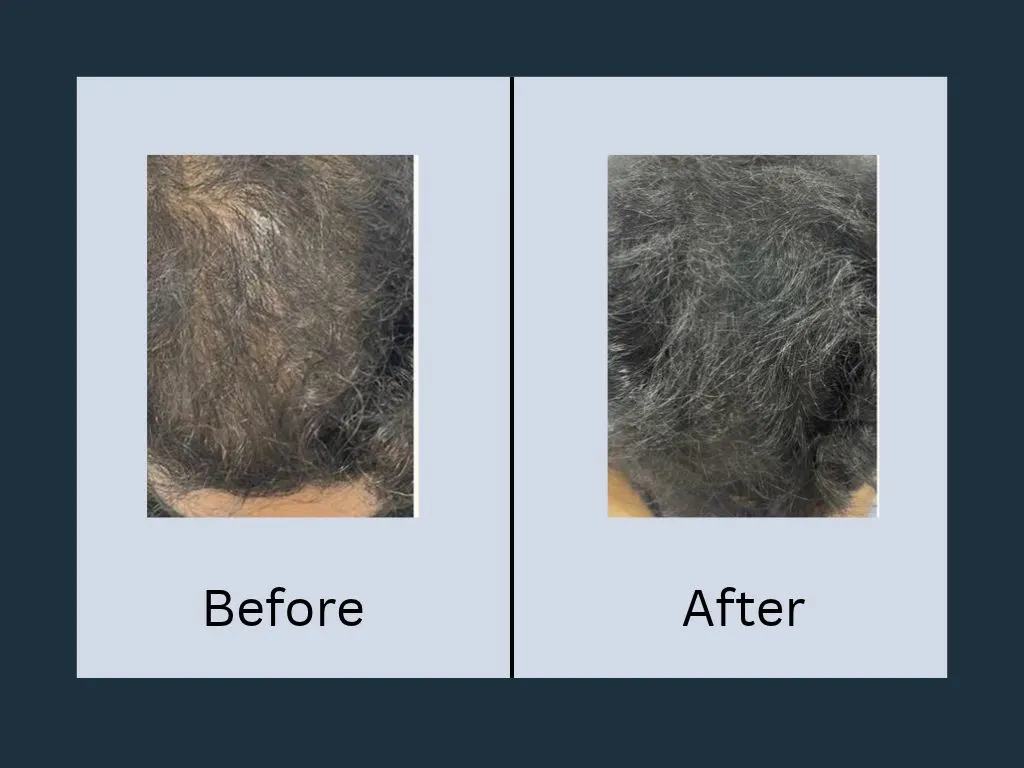
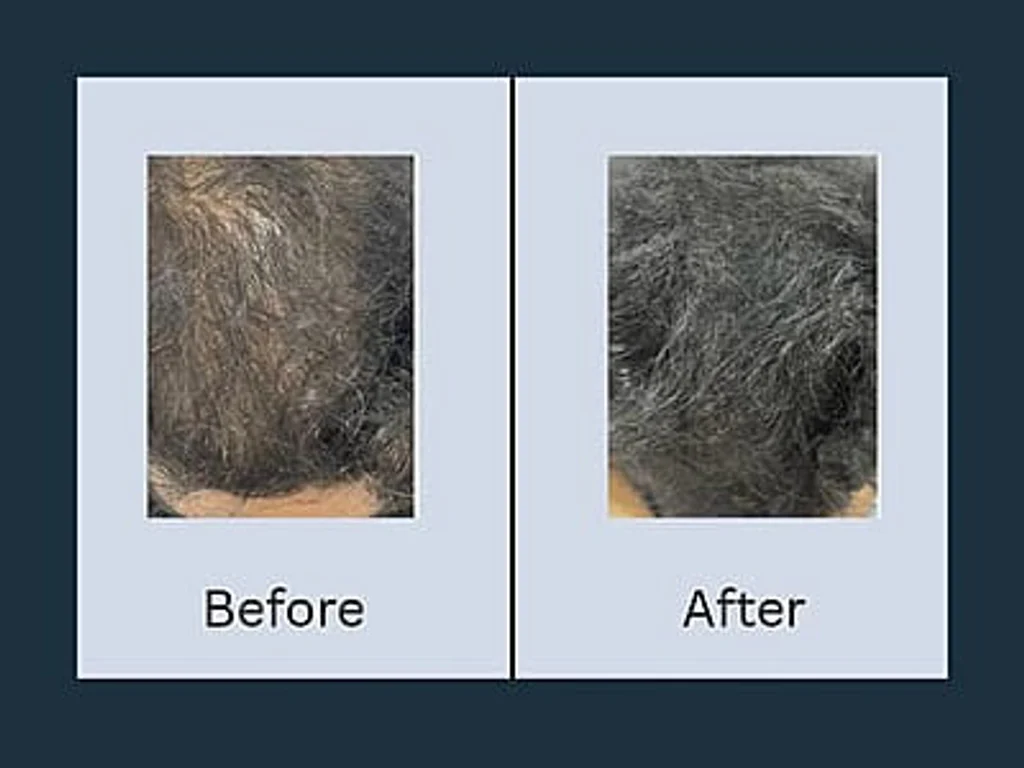
Refactor code structure for improved readability and maintainability

diff --git a/src/components/InternationalPatients.tsx b/src/components/InternationalPatients.tsx
@@ -13,12 +13,6 @@ import { BUTTON, CtaButton, Section } from './treatment/shell'
  * gallery and the rest of the homepage journey. Services keeps its earlier,
  * shorter international-patient signpost.
  *
- * FLAGGED FOR CLIENT REVIEW: the detailed page contains additional claims
- * about patient volume, travel logistics, cost, packages and stay duration.
- * They are deliberately omitted here until their currency and consistency are
- * confirmed. This teaser makes only the restrained claims already supported
- * across the page's consultation, travel-guidance and aftercare sections.
- *
  * CtaRow is not used because its light-ground secondary is an outline whose
  * line colour nearly disappears on this accent panel. The white secondary
  * button below is the stronger existing Celebrities-on-accent idiom.
@@ -27,10 +21,10 @@ import { BUTTON, CtaButton, Section } from './treatment/shell'
 const ROUTE = '/hair-transplant-medical-tourism-in-bangalore/'
 
 const POINTS = [
-  'Virtual consultation before you travel',
-  'Doctor-led planning with Dr. Sandeep Mahapatra',
-  'Guidance on procedure scheduling, recovery time and return travel',
-  'Follow-up guidance after you return home',
+  'Online Consultation Before You Travel',
+  'Doctor-Led Hairline Design & Treatment Planning',
+  'Assistance With Travel & Stay Arrangements',
+  'Post-Transplant Care & Virtual Follow-Ups',
 ] as const
 
 const FOCUS =
@@ -43,14 +37,18 @@ export default function InternationalPatients() {
         <Reveal className="flex flex-col gap-4 lg:col-start-1 lg:row-start-1">
           <p className="flex items-center gap-[5px] font-head text-h6 text-secondary">
             <Square className="h-[14px] w-[14px] shrink-0 text-primary" />
-            Before You Travel
+            International Patients
           </p>
           <h2 className="text-balance font-head text-h2 text-secondary">
-            Hair Transplant for International Patients
+            Your Hair Restoration Journey, Beyond Borders.
           </h2>
           <p className="text-body-lg text-body">
-            Planning a hair transplant abroad should feel organized - not overwhelming. Your consultation can
-            start online, long before your flight.
+            Planning a Hair Transplant in Bangalore? We&rsquo;re Here to Guide You.
+          </p>
+          <p className="text-body">
+            At Neo Follicle, we make hair restoration planning easier for international patients
+            with expert consultations, personalised treatment plans and dedicated support
+            throughout their journey, from the first virtual consultation to recovery back home.
           </p>
         </Reveal>
 
@@ -59,13 +57,13 @@ export default function InternationalPatients() {
           className="lg:col-start-2 lg:row-span-2 lg:row-start-1 lg:h-full lg:self-stretch"
         >
           <img
-            src="/treatments/hair-transplant-medical-tourism-in-bangalore/video-consultation.webp"
-            alt="A man at home on a video consultation, wearing a wireless earbud and looking at his laptop."
+            src="/international-patients/section.webp"
+            alt="International patient care at Neo Follicle Hair Transplant Clinic in Bangalore."
             width={1200}
-            height={900}
+            height={800}
             loading="lazy"
             decoding="async"
-            className="aspect-[4/3] h-full w-full rounded object-cover md:aspect-[16/9] md:object-[50%_20%] lg:aspect-auto lg:min-h-[420px] lg:object-[40%_center]"
+            className="aspect-[4/3] h-full w-full rounded object-cover object-center md:aspect-[16/9] lg:aspect-auto lg:min-h-[420px]"
           />
         </Reveal>
 
@@ -80,8 +78,9 @@ export default function InternationalPatients() {
           </ul>
 
           <p className="text-body">
-            Patients have travelled to Neo Follicle from the United States, the United Kingdom, Europe, Australia
-            and the Gulf.
+            <span className="font-head text-h6 text-secondary">500+ International Patients</span>
+            <span aria-hidden="true"> | </span>
+            Dr. Sandeep Mahapatra
           </p>
 
           <div className="flex flex-col gap-gap-sm md:flex-row md:flex-wrap">
@@ -89,7 +88,7 @@ export default function InternationalPatients() {
               to={ROUTE}
               className={`${BUTTON} bg-primary text-white hover:bg-primary-dark ${FOCUS}`}
             >
-              Plan Your Treatment Visit
+              Explore International Patient Care
               <ArrowRight className="h-4 w-4 shrink-0" />
             </Link>
             <CtaButton

diff --git a/src/components/Services.tsx b/src/components/Services.tsx
@@ -118,11 +118,11 @@ const SERVICES = [
     alt: 'Profile view of a man with a full, closely trimmed beard.',
   },
   {
-    title: 'Eyebrow Restoration',
-    copy: 'Rebuild thin, over-plucked or scarred brows with single-hair precision and natural angle.',
-    to: '/eyebrow-restoration-in-bangalore/',
-    img: '/services/eyebrow.webp',
-    alt: 'Close-up of an eyebrow being marked out and treated by a gloved practitioner.',
+    title: 'Female Hair Restoration',
+    copy: 'For thinning, widening partings and female pattern hair loss, planned only after the cause is diagnosed.',
+    to: '/female-hair-transplant-in-bangalore/',
+    img: '/services/female.webp',
+    alt: 'A woman resting in a treatment chair during a female hair restoration consultation.',
   },
   {
     title: 'Failed Hair Transplant Repair',

diff --git a/src/components/About.tsx b/src/components/About.tsx
@@ -203,6 +203,12 @@ export default function About() {
                   He evaluates your scalp, identifies the cause of hair loss, and recommends a
                   transplant, non-surgical treatment or combination before booking.
                 </p>
+                <p className="text-body">
+                  Neo Follicle is a doctor-led hair transplant and hair loss clinic with locations
+                  in Marathahalli and Whitefield, Bangalore. Every case is diagnosed, designed and
+                  performed under the guidance of Dr. Sandeep Mahapatra, a senior dermatologist
+                  and hair transplant surgeon.
+                </p>
               </div>
 
               <Link

diff --git a/src/components/doctor/DoctorPhilosophy.tsx b/src/components/doctor/DoctorPhilosophy.tsx
@@ -110,8 +110,8 @@ export default function DoctorPhilosophy() {
             {/* FLAGGED FOR CLIENT REVIEW -- stock, not Neo Follicle. See the
                 header note. Depicts the doc's diagnosis-first argument. */}
             <img
-              src="/about/philosophy.webp"
-              alt="A dermatologist using a trichoscope on a seated patient while reviewing the magnified scalp image on a tablet."
+              src="/about/philosophy-new.webp"
+              alt="A clinician consulting with a patient about hair restoration."
               width={1200}
               height={670}
               loading="lazy"

diff --git a/src/components/doctor/DoctorProfile.tsx b/src/components/doctor/DoctorProfile.tsx
@@ -82,10 +82,10 @@ export default function DoctorProfile() {
             in it are models.
           */}
           <img
-            src="/about/profile.webp"
-            alt="A dermatologist examining a seated patient's hairline across a consultation desk."
+            src="/about/doctor-profile.webp"
+            alt="Dr. Sandeep Mahapatra, Senior Consultant Dermatologist and Hair Transplant Surgeon."
             width={900}
-            height={507}
+            height={1200}
             loading="lazy"
             className="h-full min-h-[280px] w-full rounded object-cover lg:min-h-[420px]"
           />

diff --git a/src/components/doctor/DoctorApproach.tsx b/src/components/doctor/DoctorApproach.tsx
@@ -62,8 +62,8 @@ export default function DoctorApproach() {
             {/* FLAGGED FOR CLIENT REVIEW -- stock, not Neo Follicle. See the
                 image-provenance note in DoctorPhilosophy. */}
             <img
-              src="/about/approach.webp"
-              alt="A gloved clinician marking a planned hairline on a patient's scalp."
+              src="/about/approach-new.webp"
+              alt="A clinician marking a planned hairline on a patient's scalp."
               width={1200}
               height={800}
               loading="lazy"

diff --git a/src/components/TreatmentGallery.tsx b/src/components/TreatmentGallery.tsx
@@ -139,9 +139,9 @@ const CATEGORIES = [
     alt: 'A clinician performing a female hair restoration treatment along the frontal hairline.',
   },
   {
-    label: 'Eyebrow',
-    img: '/gallery/eyebrow.webp',
-    alt: 'A precision device being used for an eyebrow treatment while the patient wears eye protection.',
+    label: 'Female Hair Restoration',
+    img: '/gallery/female-restoration.webp',
+    alt: 'A clinician performing female hair restoration along a patient’s frontal hairline.',
   },
   {
     label: 'Failed Repair',
